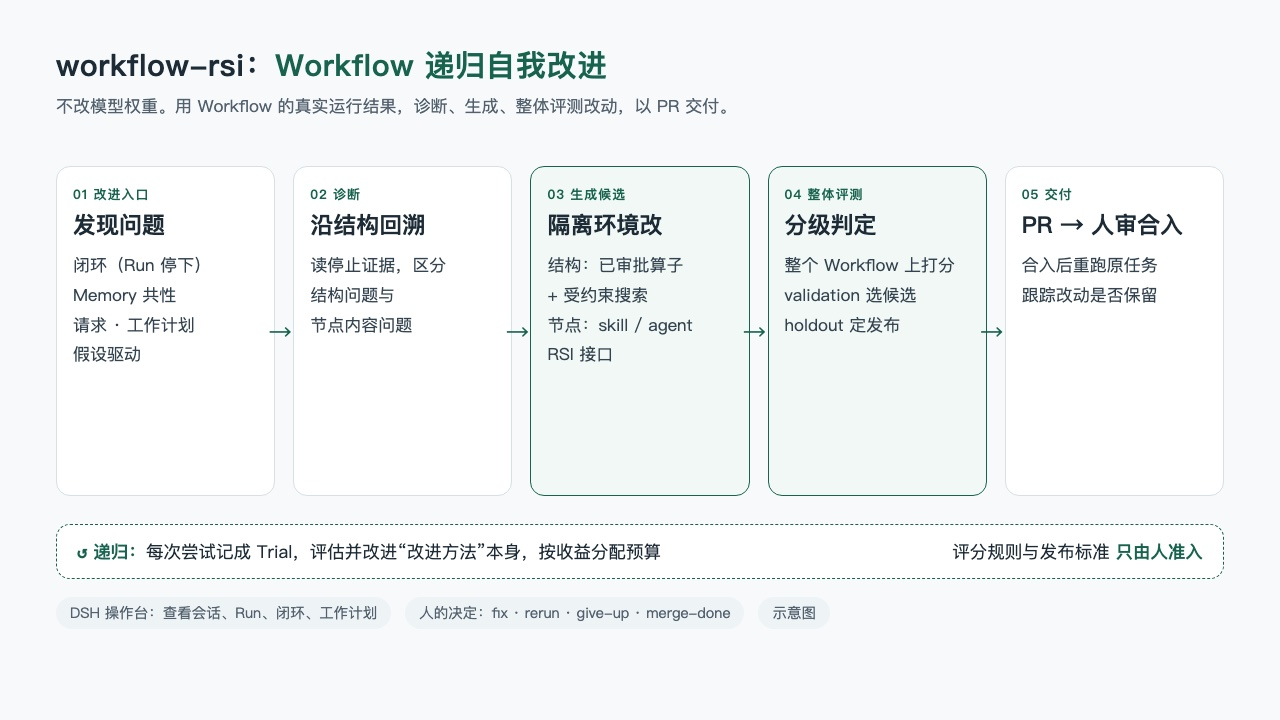
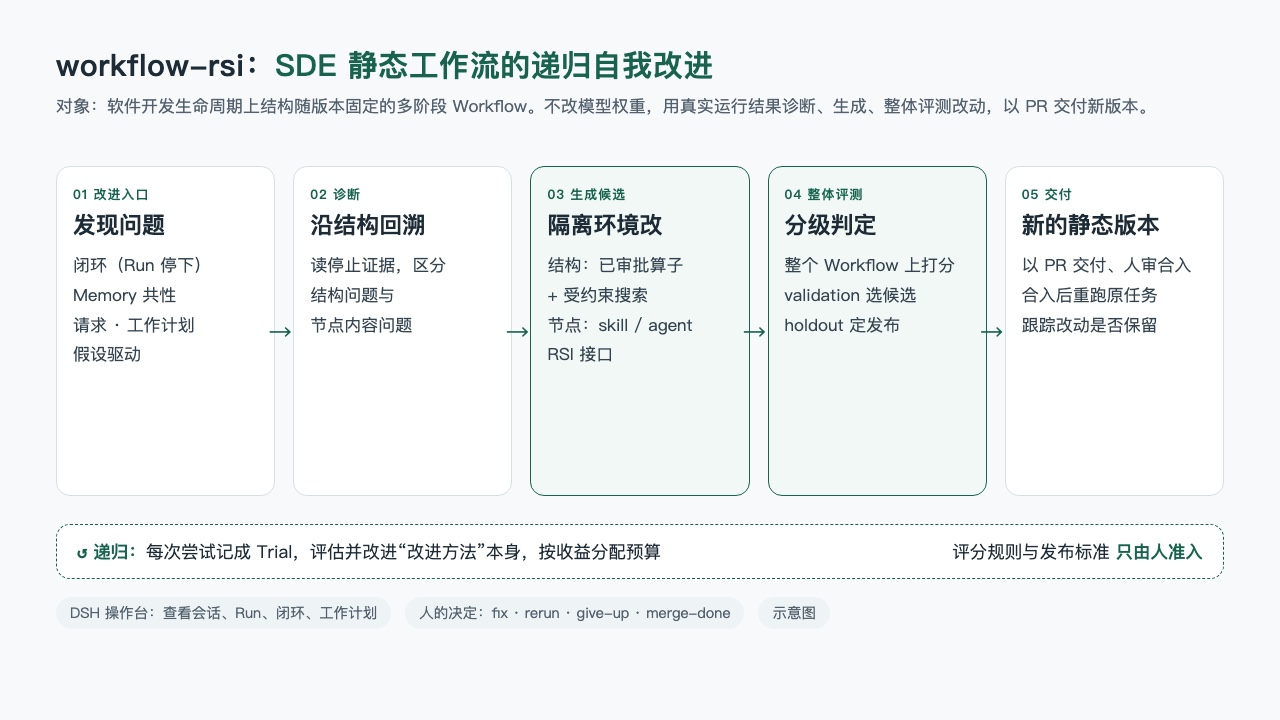
docs(workflow-rsi): 讲清改进对象是 SDE lifecycle 上的静态工作流
- 定义静态工作流：阶段、节点、交接、分支、重试与门禁随版本固定，每个输入按同一张结构图执行；按输入临时编排步骤的动态工作流不在范围内
- 说明只针对软件开发生命周期：需求、分析、设计、计划、实现、构建、验证，各阶段结果可自动判定
- 介绍页首屏、代表图、功能演示、适用范围、FAQ，以及市场索引描述、README 与使用文档同步口径

Changed region(s): [[0.0312, 0.0611, 0.9062, 0.1833], [0.7812, 0.275, 0.9375, 0.4583]]

diff --git a/public/plugins/workflow-rsi/index.html b/public/plugins/workflow-rsi/index.html
@@ -3,7 +3,7 @@
 <head>
   <meta charset="utf-8">
   <meta name="viewport" content="width=device-width,initial-scale=1">
-  <meta name="description" content="让 Workflow 递归自我改进：不改模型权重，用真实运行结果诊断问题、生成改动并在整个 Workflow 上评测，以 PR 交付更好的 Workflow。">
+  <meta name="description" content="面向软件开发生命周期（SDE lifecycle）的静态工作流做递归自我改进：不改模型权重，用真实运行结果诊断问题、生成改动并在整个 Workflow 上评测，以 PR 交付更好的版本。">
   <meta name="color-scheme" content="light">
   <meta name="theme-color" content="#f7f9fb">
   <title>workflow-rsi · Fuxi通用DSH组件市场</title>
@@ -21,8 +21,8 @@
     <section id="overview" class="wrap hero" aria-labelledby="page-title">
       <div class="hero-copy">
         <div class="plugin-name">workflow-rsi <span class="version">v0.1.0-alpha.1</span></div>
-        <h1 id="page-title"><span>Workflow</span><span class="accent">递归自我改进</span></h1>
-        <p class="lede">让 Workflow 递归自我改进：不改模型权重，用真实运行结果诊断问题、生成改动并在整个 Workflow 上评测，以 PR 交付更好的 Workflow。</p>
+        <h1 id="page-title"><span>SDE 静态工作流</span><span class="accent">递归自我改进</span></h1>
+        <p class="lede">面向软件开发生命周期（SDE lifecycle）的静态工作流做递归自我改进：不改模型权重，用真实运行结果诊断问题、生成改动并在整个 Workflow 上评测，以 PR 交付更好的版本。</p>
         <div class="hero-install" aria-label="安装命令"><div class="code-block"><div class="code-bar"><span>终端 · 安装 workflow-rsi 操作台</span><button type="button" class="copy-button" data-copy="dsh plugin --profile web add @fuxi-ailabs/workflow-rsi-dsh-console@0.1.0-alpha.1" aria-label="复制">复制 <span aria-hidden="true">⧉</span></button></div><pre><code>dsh plugin --profile web add @fuxi-ailabs/workflow-rsi-dsh-console@0.1.0-alpha.1</code></pre></div><p>先安装并启动 wrsi-server；web 换成操作台使用的 DSH Profile。 <a href="#quickstart">安装步骤 ↓</a></p></div>
         <div class="actions"><a class="button primary" href="#example">功能演示</a><a class="button secondary" href="#quickstart">安装使用</a></div>
         <p class="compatibility">DSH 0.1.6-alpha.2 或 ^0.2.1-rc.2 · 操作台与本体 0.1.0-alpha.1</p>
@@ -30,19 +30,45 @@
       </div>
       <figure class="hero-visual">
         <button type="button" class="screenshot-button hero-image-button" data-screenshot="assets/rsi-loop.jpg" data-title="一轮改进：从发现问题到 PR" aria-label="放大查看：一轮改进：从发现问题到 PR"><img src="assets/rsi-loop.jpg" width="1280" height="720" alt="workflow-rsi 一轮改进的流程：改进入口、沿结构诊断、在隔离环境生成候选、在整个 Workflow 上分级评测、以 PR 交付，并记录 Trial 改进改进方法本身。"><span>点击放大 <span aria-hidden="true">⤢</span></span></button>
-        <figcaption><strong>一轮改进：从发现问题到 PR</strong><p>示意图。结构候选用已审批算子和受约束搜索生成，节点内容经 skill / agent RSI 接口改进；评分规则与发布标准只由人准入。</p></figcaption>
+        <figcaption><strong>一轮改进：从发现问题到 PR</strong><p>示意图。改进对象是 SDE lifecycle 上的静态工作流：阶段、节点与交接随版本固定，每个输入按同一张结构图执行。结构候选用已审批算子和受约束搜索生成，节点内容经 skill / agent RSI 接口改进；评分规则与发布标准只由人准入。</p></figcaption>
       </figure>
     </section>
 
     <section id="use-cases" class="wrap section" aria-labelledby="cases-title">
       <div class="section-heading"><h2 id="cases-title">使用场景与适合人群</h2></div>
-      <div class="case-grid"><article class="case-card"><p class="case-audience"><span>适合</span>维护多阶段 Workflow 的工程师</p><h3>Run 停下后定位并修复</h3><blockquote>“Run 停在第 5 个阶段，是输入的问题还是 Workflow 的缺陷？”</blockquote><p>闭环读取停止证据，沿 Workflow 结构回溯，区分结构问题和节点内容问题，生成带测试的改动，验证通过后提出 PR；把握不足时停下交给人决定。</p><button type="button" class="copy-button" data-copy="列出 workflow-rsi 里正在等人决定的闭环，说明每个闭环停在哪个阶段、停止原因和诊断结论。" aria-label="复制提问">复制提问 <span aria-hidden="true">⧉</span></button></article><article class="case-card"><p class="case-audience"><span>适合</span>只能通过 API 调用模型的团队</p><h3>不训练模型，持续提升效果</h3><blockquote>“拿不到模型权重，怎样让同一类任务越做越好？”</blockquote><p>改动落在 Workflow 上，改好一次，之后同类任务都复用；每次尝试记成 Trial，按收益在改进方法之间分配预算。换模型后，固化在 Workflow 代码和测试里的判断可以直接复用。</p><button type="button" class="copy-button" data-copy="汇总 workflow-rsi 最近一周的 Trial：每次用了什么改进方法、改了什么、评测结果，以及是否合入。" aria-label="复制提问">复制提问 <span aria-hidden="true">⧉</span></button></article><article class="case-card"><p class="case-audience"><span>适合</span>Workflow 仓维护者与评审者</p><h3>审一个带证据的改动</h3><blockquote>“这个 PR 改了什么，证据够不够合入？”</blockquote><p>每个 PR 都附诊断结论、改动范围、测试和分级验证结果。合入由 Workflow 仓决定；合入后 workflow-rsi 重跑原任务，跟踪改动是否被保留。</p><button type="button" class="copy-button" data-copy="查看这个闭环提出的 PR：诊断结论和置信度、改了哪些文件、L1/L2/L3 验证结果，以及合入后重跑停在哪里。" aria-label="复制提问">复制提问 <span aria-hidden="true">⧉</span></button></article></div>
+      <div class="case-grid"><article class="case-card"><p class="case-audience"><span>适合</span>维护 SDE 多阶段 Workflow 的工程师</p><h3>Run 停下后定位并修复</h3><blockquote>“Run 停在第 5 个阶段，是输入的问题还是 Workflow 的缺陷？”</blockquote><p>闭环读取停止证据，沿 Workflow 结构回溯，区分结构问题和节点内容问题，生成带测试的改动，验证通过后提出 PR；把握不足时停下交给人决定。</p><button type="button" class="copy-button" data-copy="列出 workflow-rsi 里正在等人决定的闭环，说明每个闭环停在哪个阶段、停止原因和诊断结论。" aria-label="复制提问">复制提问 <span aria-hidden="true">⧉</span></button></article><article class="case-card"><p class="case-audience"><span>适合</span>只能通过 API 调用模型的团队</p><h3>不训练模型，持续提升效果</h3><blockquote>“拿不到模型权重，怎样让同一类任务越做越好？”</blockquote><p>改动落在 Workflow 上，改好一次，之后同类任务都复用；每次尝试记成 Trial，按收益在改进方法之间分配预算。换模型后，固化在 Workflow 代码和测试里的判断可以直接复用。</p><button type="button" class="copy-button" data-copy="汇总 workflow-rsi 最近一周的 Trial：每次用了什么改进方法、改了什么、评测结果，以及是否合入。" aria-label="复制提问">复制提问 <span aria-hidden="true">⧉</span></button></article><article class="case-card"><p class="case-audience"><span>适合</span>Workflow 仓维护者与评审者</p><h3>审一个带证据的改动</h3><blockquote>“这个 PR 改了什么，证据够不够合入？”</blockquote><p>每个 PR 都附诊断结论、改动范围、测试和分级验证结果。合入由 Workflow 仓决定；合入后 workflow-rsi 重跑原任务，跟踪改动是否被保留。</p><button type="button" class="copy-button" data-copy="查看这个闭环提出的 PR：诊断结论和置信度、改了哪些文件、L1/L2/L3 验证结果，以及合入后重跑停在哪里。" aria-label="复制提问">复制提问 <span aria-hidden="true">⧉</span></button></article></div>
     </section>
 
     <section id="example" class="wrap section" aria-labelledby="example-title">
-      <div class="section-heading"><h2 id="example-title">一次真实闭环：从 Run 停下到 PR</h2><p class="section-description">一个已接入的多阶段 Workflow 在同一份输入上的两轮。下面的事件取自闭环账本，时间为 UTC，诊断一行依次为处理方式、所属层、置信度。</p></div>
+      <div class="section-heading"><h2 id="example-title">改进对象与一次真实闭环</h2><p class="section-description">先说明 workflow-rsi 改进的是什么样的 Workflow，再看一个已接入的多阶段 Workflow 在同一份输入上的两轮。事件取自闭环账本，时间为 UTC，诊断一行依次为处理方式、所属层、置信度。</p></div>
 
-      <div class="demo-content"><div class="demo-content-block"><h3>流程图：一轮改进</h3><div class="code-block"><div class="code-bar"><span>流程</span><button type="button" class="copy-button" data-copy="改进入口：闭环、Memory 共性、请求、工作计划、假设驱动
+      <div class="demo-content"><div class="demo-content-block"><h3>什么是静态工作流</h3><p>静态工作流是结构随版本固定的 Workflow：有哪些阶段和节点、节点之间交接什么、在哪里分支、重试和设门禁，都写在 Workflow 仓的源码里；同一个版本对每个输入都按同一张结构图执行。每个节点用的模型、提示、Skill 和工具也随版本固定。运行时由 Agent 按输入临时决定步骤的编排属于动态工作流，不在 workflow-rsi 的改进范围内。</p></div><div class="demo-content-block"><h3>为什么只针对 SDE lifecycle</h3><p>workflow-rsi 改进的是软件开发生命周期上的静态工作流：从需求、分析、设计、计划到实现、构建与验证，按固定阶段推进，每个阶段有明确的产出和可以自动判定的结果（构建是否通过、测试通过多少、覆盖率多少）。这些结果给出可重复的评测信号，改动可以用测试证明、以 PR 交付、合入后重跑同一任务复核。通用业务流程、客服对话、数据处理等其他类型的工作流，暂不作为改进对象。</p></div><div class="demo-content-block"><h3>一个 SDE lifecycle 静态工作流的结构</h3><div class="code-block"><div class="code-bar"><span>阶段与交接（示例中的 Workflow）</span><button type="button" class="copy-button" data-copy="generate      准备任务与需求说明
+  ↓
+analysis      分析代码与依赖
+  ↓
+design        设计改动方案
+  ↓
+plan          拆成可执行的步骤
+  ↓
+execution     实现与构建
+  ↓
+verification  运行测试；失败时由 Repair 决定去向
+                safe_fix          → 有限修复后复测
+                request_redesign  → 交给 Redesign 重新设计
+                no_action         → 结束（no_safe_repair）" aria-label="复制">复制 <span aria-hidden="true">⧉</span></button></div><pre><code>generate      准备任务与需求说明
+  ↓
+analysis      分析代码与依赖
+  ↓
+design        设计改动方案
+  ↓
+plan          拆成可执行的步骤
+  ↓
+execution     实现与构建
+  ↓
+verification  运行测试；失败时由 Repair 决定去向
+                safe_fix          → 有限修复后复测
+                request_redesign  → 交给 Redesign 重新设计
+                no_action         → 结束（no_safe_repair）</code></pre></div></div><div class="demo-content-block"><h3>workflow-rsi 在这张结构图上能改什么</h3><ul><li>结构：插入已审步骤、删除可选步骤、调整允许的交接、切换已审策略；门禁和受保护路径不能动。</li><li>节点内容：指令、Skill、工具说明和模型选择，经 skill / agent RSI 接口改进。</li><li>两类改动都在整个 Workflow 上分级评测，产出的是一个新的静态版本，以 PR 交付。</li></ul></div><div class="demo-content-block"><h3>流程图：一轮改进</h3><div class="code-block"><div class="code-bar"><span>流程</span><button type="button" class="copy-button" data-copy="改进入口：闭环、Memory 共性、请求、工作计划、假设驱动
   ↓
 诊断：沿 Workflow 结构回溯，区分结构问题与节点内容问题
   ↓
@@ -156,9 +182,9 @@ redesign can address the failure.</code></pre></div></div><div class="demo-conte
     <section id="quickstart" class="wrap section" aria-labelledby="start-title">
       <div class="section-heading"><h2 id="start-title">安装与验证</h2></div>
       <div id="details" class="install-requirements">
-        <div class="requirements-row"><strong>使用条件</strong><dl><div><dt>插件</dt><dd>@fuxi-ailabs/workflow-rsi-dsh-console 0.1.0-alpha.1</dd></div><div><dt>workflow-rsi 本体</dt><dd>@fuxi-ailabs/workflow-rsi 0.1.0-alpha.1（命令 wie、wrsi-server）</dd></div><div><dt>DSH</dt><dd>0.1.6-alpha.2 或 ^0.2.1-rc.2，两版都已实跑 22 项验收</dd></div><div><dt>系统</dt><dd>macOS 或 Linux，Node.js ≥ 22.19；暂不支持原生 Windows</dd></div><div><dt>被改进的 Workflow</dt><dd>需要它的适配器读取 Run 的状态和停止记录，以及仓库与闭环配置</dd></div></dl></div>
+        <div class="requirements-row"><strong>使用条件</strong><dl><div><dt>插件</dt><dd>@fuxi-ailabs/workflow-rsi-dsh-console 0.1.0-alpha.1</dd></div><div><dt>workflow-rsi 本体</dt><dd>@fuxi-ailabs/workflow-rsi 0.1.0-alpha.1（命令 wie、wrsi-server）</dd></div><div><dt>DSH</dt><dd>0.1.6-alpha.2 或 ^0.2.1-rc.2，两版都已实跑 22 项验收</dd></div><div><dt>系统</dt><dd>macOS 或 Linux，Node.js ≥ 22.19；暂不支持原生 Windows</dd></div><div><dt>被改进的 Workflow</dt><dd>SDE lifecycle 上的静态工作流，需要它的适配器读取 Run 的状态和停止记录，以及仓库与闭环配置</dd></div></dl></div>
         <p>workflow-rsi 由本体和 DSH 操作台两个 npm 包组成。判定、状态与注册表都不进 DSH 进程，插件只经 wrsi-server 的本机 HTTP API 和 wie 子进程访问它。</p>
-        <details class="install-boundaries"><summary>适用范围和限制 <span aria-hidden="true">＋</span></summary><div><div><strong>适合的场景</strong><p>同一个 Workflow 反复处理同类任务、由多个阶段和 Agent 组成、团队要求改动可审计可回滚。只跑一次的任务，或者 Workflow 还没有接入适配器时，用处不大。</p></div><div><strong>操作台的范围</strong><p>操作台在 DSH 里查看会话、Run、停止记录、闭环和工作计划，并转交人的决定。11 个工具都只读，守卫拒绝其他 wrsi_ 写工具；诊断、评测、提出 PR 和闭环都由 workflow-rsi 本体完成。</p></div><div><strong>由人准入</strong><p>评分规则、发布标准、预算分配和新改进方法的启用只由人准入，workflow-rsi 和 Agent 都改不了；是否合入 PR 由 Workflow 仓的维护者决定。Harness（会话、沙箱、预算、状态、证据）不自动修改。</p></div></div></details>
+        <details class="install-boundaries"><summary>适用范围和限制 <span aria-hidden="true">＋</span></summary><div><div><strong>改进对象</strong><p>SDE lifecycle 上的静态工作流：需求、分析、设计、计划、实现、构建、验证等阶段按固定结构推进，结构随版本固定，每个阶段有可自动判定的结果。运行时按输入临时编排步骤的动态工作流，以及非软件开发类的工作流，不在改进范围内。</p></div><div><strong>适合的场景</strong><p>同一个静态工作流反复处理同类开发任务、由多个阶段和 Agent 组成、团队要求改动可审计可回滚。只跑一次的任务，或者 Workflow 还没有接入适配器时，用处不大。</p></div><div><strong>操作台的范围</strong><p>操作台在 DSH 里查看会话、Run、停止记录、闭环和工作计划，并转交人的决定。11 个工具都只读，守卫拒绝其他 wrsi_ 写工具；诊断、评测、提出 PR 和闭环都由 workflow-rsi 本体完成。</p></div><div><strong>由人准入</strong><p>评分规则、发布标准、预算分配和新改进方法的启用只由人准入，workflow-rsi 和 Agent 都改不了；是否合入 PR 由 Workflow 仓的维护者决定。Harness（会话、沙箱、预算、状态、证据）不自动修改。</p></div></div></details>
       </div>
       <ol class="steps"><li id="step-1"><span class="step-index" aria-hidden="true">1</span><div><p class="step-description"><strong>安装 workflow-rsi 本体</strong> 全局安装后得到 wie 与 wrsi-server 两个命令；包内自带内部库，只另外从 registry 安装 TypeScript。 <span class="command-context">终端</span></p><div class="install-command" aria-label="终端"><pre><code>npm install -g @fuxi-ailabs/workflow-rsi@0.1.0-alpha.1
 which wie wrsi-server</code></pre><button type="button" class="copy-button" data-copy="npm install -g @fuxi-ailabs/workflow-rsi@0.1.0-alpha.1
@@ -181,7 +207,7 @@ which wie wrsi-server" aria-label="复制">复制 <span aria-hidden="true">⧉</
 
     <section id="faq" class="wrap section" aria-labelledby="faq-title">
       <div class="section-heading"><h2 id="faq-title">常见问题</h2></div>
-      <div class="faq-list"><details><summary>workflow-rsi 和直接改提示词或 Skill 有什么区别？<span aria-hidden="true">＋</span></summary><p>workflow-rsi 先沿 Workflow 结构诊断，再决定改哪里：结构问题用已审批的结构算子和受约束搜索生成候选，节点内容（指令、Skill、工具说明、模型选择）交给 skill / agent RSI 接口。两类改动都在整个 Workflow 上分级评测，局部得分只作参考，以 PR 交付。</p></details><details><summary>操作台会自己改 Workflow 或合入 PR 吗？<span aria-hidden="true">＋</span></summary><p>不会。操作台注册 11 个只读工具和一个 /wrsi 命令，Agent 无法经工具改动 workflow-rsi。admit、publish、loop-resume、plan-decide 这类写命令必须由人带上 --confirm 才执行；PR 是否合入由 Workflow 仓的维护者决定。</p></details><details><summary>闭环停下等人时怎么处理？<span aria-hidden="true">＋</span></summary><p>诊断把握不足、候选验证不过、环境故障等情况都会停下。用 /wrsi loop &lt;loop id&gt; 查看停止原因和诊断结论，再用 /wrsi loop-resume &lt;loop id&gt; &lt;fix|rerun|give-up|merge-done&gt; --confirm 给出决定。</p></details><details><summary>接入一个新的 Workflow 需要准备什么？<span aria-hidden="true">＋</span></summary><p>需要该 Workflow 的适配器，用来读取 Run 的状态和停止记录、输出事实；适配器不下结论。另外配置 Workflow 仓库与闭环配置，以及人准入的评测资产。</p></details><details><summary>插件调用失败，先检查哪里？<span aria-hidden="true">＋</span></summary><p>先确认 wrsi-server 在运行、server_url 正确、key_file 可读且与服务一致；闭环与工作计划功能还需要配置 wie。各种情况的返回见“错误与写操作”文档。插件不重试，也不在不可用时猜测结果。</p></details><details><summary>评分规则和发布标准由谁来定？<span aria-hidden="true">＋</span></summary><p>只由人准入。workflow-rsi 和 Agent 都改不了评分规则、发布标准和预算分配；新的改进方法由 method-author 提出，经影子试验和人工准入后启用。</p></details></div>
+      <div class="faq-list"><details><summary>什么是静态工作流？<span aria-hidden="true">＋</span></summary><p>结构随版本固定的 Workflow：阶段、节点、交接、分支、重试和门禁写在 Workflow 仓的源码里，同一个版本对每个输入都按同一张结构图执行，节点用的模型、提示、Skill 和工具也随版本固定。workflow-rsi 每次改进产出一个新的静态版本，经评测后以 PR 交付。</p></details><details><summary>我的工作流不是软件开发流程，能用吗？<span aria-hidden="true">＋</span></summary><p>workflow-rsi 只针对 SDE lifecycle 的静态工作流，依赖构建、测试、覆盖率这类可以自动判定的阶段结果做评测。其他类型的工作流暂不支持；运行时按输入临时编排步骤的动态工作流，也不在改进范围内。</p></details><details><summary>workflow-rsi 和直接改提示词或 Skill 有什么区别？<span aria-hidden="true">＋</span></summary><p>workflow-rsi 先沿 Workflow 结构诊断，再决定改哪里：结构问题用已审批的结构算子和受约束搜索生成候选，节点内容（指令、Skill、工具说明、模型选择）交给 skill / agent RSI 接口。两类改动都在整个 Workflow 上分级评测，局部得分只作参考，以 PR 交付。</p></details><details><summary>操作台会自己改 Workflow 或合入 PR 吗？<span aria-hidden="true">＋</span></summary><p>不会。操作台注册 11 个只读工具和一个 /wrsi 命令，Agent 无法经工具改动 workflow-rsi。admit、publish、loop-resume、plan-decide 这类写命令必须由人带上 --confirm 才执行；PR 是否合入由 Workflow 仓的维护者决定。</p></details><details><summary>闭环停下等人时怎么处理？<span aria-hidden="true">＋</span></summary><p>诊断把握不足、候选验证不过、环境故障等情况都会停下。用 /wrsi loop &lt;loop id&gt; 查看停止原因和诊断结论，再用 /wrsi loop-resume &lt;loop id&gt; &lt;fix|rerun|give-up|merge-done&gt; --confirm 给出决定。</p></details><details><summary>接入一个新的 Workflow 需要准备什么？<span aria-hidden="true">＋</span></summary><p>需要该 Workflow 的适配器，用来读取 Run 的状态和停止记录、输出事实；适配器不下结论。另外配置 Workflow 仓库与闭环配置，以及人准入的评测资产。</p></details><details><summary>插件调用失败，先检查哪里？<span aria-hidden="true">＋</span></summary><p>先确认 wrsi-server 在运行、server_url 正确、key_file 可读且与服务一致；闭环与工作计划功能还需要配置 wie。各种情况的返回见“错误与写操作”文档。插件不重试，也不在不可用时猜测结果。</p></details><details><summary>评分规则和发布标准由谁来定？<span aria-hidden="true">＋</span></summary><p>只由人准入。workflow-rsi 和 Agent 都改不了评分规则、发布标准和预算分配；新的改进方法由 method-author 提出，经影子试验和人工准入后启用。</p></details></div>
     </section>
   </main>
   <footer class="wrap footer"><span>Fuxi AI Labs</span><div><a href="https://fuxi-ailabs.github.io/dsh-plugin-market/plugins/workflow-rsi/guide.html">使用文档 ↗</a><a href="https://fuxi-ailabs.github.io/dsh-plugin-market/plugins/workflow-rsi/tools.html">工具与命令 ↗</a><a href="https://fuxi-ailabs.github.io/dsh-plugin-market/plugins/workflow-rsi/errors.html">错误与写操作 ↗</a><a href="https://fuxi-ailabs.github.io/dsh-plugin-market/plugins/workflow-rsi/versions.html">组件与版本 ↗</a><a href="#faq">常见问题</a><a href="#overview">回到顶部 ↑</a></div></footer>

diff --git a/public/plugins/workflow-rsi/demo-data.js b/public/plugins/workflow-rsi/demo-data.js
@@ -1,8 +1,33 @@
 // Illustrative data for this page, not a live plugin connection.
 window.PLUGIN_DEMO = {
-  "title": "一次真实闭环：从 Run 停下到 PR",
-  "description": "一个已接入的多阶段 Workflow 在同一份输入上的两轮。下面的事件取自闭环账本，时间为 UTC，诊断一行依次为处理方式、所属层、置信度。",
+  "title": "改进对象与一次真实闭环",
+  "description": "先说明 workflow-rsi 改进的是什么样的 Workflow，再看一个已接入的多阶段 Workflow 在同一份输入上的两轮。事件取自闭环账本，时间为 UTC，诊断一行依次为处理方式、所属层、置信度。",
   "blocks": [
+    {
+      "type": "text",
+      "title": "什么是静态工作流",
+      "text": "静态工作流是结构随版本固定的 Workflow：有哪些阶段和节点、节点之间交接什么、在哪里分支、重试和设门禁，都写在 Workflow 仓的源码里；同一个版本对每个输入都按同一张结构图执行。每个节点用的模型、提示、Skill 和工具也随版本固定。运行时由 Agent 按输入临时决定步骤的编排属于动态工作流，不在 workflow-rsi 的改进范围内。"
+    },
+    {
+      "type": "text",
+      "title": "为什么只针对 SDE lifecycle",
+      "text": "workflow-rsi 改进的是软件开发生命周期上的静态工作流：从需求、分析、设计、计划到实现、构建与验证，按固定阶段推进，每个阶段有明确的产出和可以自动判定的结果（构建是否通过、测试通过多少、覆盖率多少）。这些结果给出可重复的评测信号，改动可以用测试证明、以 PR 交付、合入后重跑同一任务复核。通用业务流程、客服对话、数据处理等其他类型的工作流，暂不作为改进对象。"
+    },
+    {
+      "type": "code",
+      "title": "一个 SDE lifecycle 静态工作流的结构",
+      "codeLabel": "阶段与交接（示例中的 Workflow）",
+      "code": "generate      准备任务与需求说明\n  ↓\nanalysis      分析代码与依赖\n  ↓\ndesign        设计改动方案\n  ↓\nplan          拆成可执行的步骤\n  ↓\nexecution     实现与构建\n  ↓\nverification  运行测试；失败时由 Repair 决定去向\n                safe_fix          → 有限修复后复测\n                request_redesign  → 交给 Redesign 重新设计\n                no_action         → 结束（no_safe_repair）"
+    },
+    {
+      "type": "list",
+      "title": "workflow-rsi 在这张结构图上能改什么",
+      "items": [
+        "结构：插入已审步骤、删除可选步骤、调整允许的交接、切换已审策略；门禁和受保护路径不能动。",
+        "节点内容：指令、Skill、工具说明和模型选择，经 skill / agent RSI 接口改进。",
+        "两类改动都在整个 Workflow 上分级评测，产出的是一个新的静态版本，以 PR 交付。"
+      ]
+    },
     {
       "type": "code",
       "title": "流程图：一轮改进",

diff --git a/public/plugins/workflow-rsi/guide.html b/public/plugins/workflow-rsi/guide.html
@@ -24,6 +24,7 @@
     <article class="doc">
       <h1>workflow-rsi</h1>
 <p>workflow-rsi 让 Workflow 递归自我改进（RSI，Recursive Self-Improvement）。在不改模型权重的前提下，它用 Workflow 的真实运行结果，持续搜索、评测并发布更好的 Workflow 结构。“自我改进”指它自己发现问题、提出改动、判断好坏；“递归”指它还会评估并改进自己的改进方法。</p>
+<p>改进对象是 SDE lifecycle（软件开发生命周期）上的静态工作流：需求、分析、设计、计划、实现、构建、验证等阶段按固定结构推进，阶段、节点、交接、分支、重试和门禁写在 Workflow 仓的源码里，随版本固定，同一个版本对每个输入都按同一张结构图执行。每次改进产出一个新的静态版本。运行时由 Agent 按输入临时决定步骤的动态工作流，以及非软件开发类的工作流，不在改进范围内。</p>
 <p>同一个模型，放在搭得好和搭得差的 Workflow 里，结果差别很大。Workflow 的改动见效快、可以回滚，改好一次，之后的任务都能复用。所有候选在隔离环境里生成，用人准入的评测资产在整个 Workflow 上判定，以 PR 交付；生产运行始终使用已发布的版本。</p>
 
 <h2 id="what">有什么用<a class="hash" href="#what" aria-label="本节链接">#</a></h2>

diff --git a/README.md b/README.md
@@ -28,7 +28,7 @@ Fuxi 团队插件目录
 AgentLineage 支持追溯文件改动来源、查询原生会话证据和打开溯源视图。参见 [插件介绍与效果对比](https://fuxi-ailabs.github.io/dsh-plugin-market/plugins/agentlineage/)。Windows x64 随插件提供完整运行环境，安装后自动启动。参见 [AgentLineage 安装与使用说明](https://github.com/fuxi-ailabs/AgentLineage/blob/dsh-agentlineage-v0.1.0-alpha.4/integrations/dsh/README.md)。
 
 Crowd Memory 是面向 DSH coding Agent 的群体记忆：把代码修复、构建排错和接口测试中的经验提供给后续 Agent，附带来源、适用条件和验证结果。面向使用 coding Agent 的开发者，以及开发 workflow 的集成与维护者；采用已有修法后，仍需在当前项目运行测试。本机共享与开发 workflow 可用，跨机器开发协作仍为内部预览；公开示例与评测聚焦开发任务，其他业务场景的适用性尚未验证。使用前需要安装本机记忆服务 `@fuxi-ailabs/crowdmemory-runtime`。参见 [Crowd Memory 介绍与安装说明](https://fuxi-ailabs.github.io/dsh-plugin-market/plugins/crowdmemory/)；各轮评测结果、数据来源和适用范围见[评测页](https://fuxi-ailabs.github.io/dsh-plugin-market/plugins/crowdmemory/evaluation.html)。
-workflow-rsi 让 Workflow 递归自我改进：不改模型权重，用真实运行结果持续搜索、评测并发布更好的 Workflow 结构，并评估和改进自己的改进方法。改进来自闭环、Memory 共性、请求、工作计划与假设驱动，结构用已审批的算子和受约束搜索生成，节点内容经 skill / agent RSI 接口改进，全部在整个 Workflow 上分级评测，以 PR 交付；评分规则与发布标准只由人准入。市场收录的是 DSH 操作台，使用前需要安装并启动 `@fuxi-ailabs/workflow-rsi` 提供的 `wrsi-server`。参见 [workflow-rsi 介绍、例子与安装说明](https://fuxi-ailabs.github.io/dsh-plugin-market/plugins/workflow-rsi/)。
+workflow-rsi 让 SDE lifecycle（软件开发生命周期）上的静态工作流递归自我改进。静态工作流指阶段、节点、交接、分支与门禁随版本固定、每个输入按同一张结构图执行的多阶段 Workflow，例如需求、分析、设计、计划、实现、构建、验证；运行时按输入临时编排步骤的动态工作流和非软件开发类工作流不在范围内。它不改模型权重，用真实运行结果持续搜索、评测并发布更好的 Workflow 结构，并评估和改进自己的改进方法。改进来自闭环、Memory 共性、请求、工作计划与假设驱动，结构用已审批的算子和受约束搜索生成，节点内容经 skill / agent RSI 接口改进，全部在整个 Workflow 上分级评测，以 PR 交付；评分规则与发布标准只由人准入。市场收录的是 DSH 操作台，使用前需要安装并启动 `@fuxi-ailabs/workflow-rsi` 提供的 `wrsi-server`。参见 [workflow-rsi 介绍、例子与安装说明](https://fuxi-ailabs.github.io/dsh-plugin-market/plugins/workflow-rsi/)。
 
 Insight 把当前 DSH 会话导入 Context-Insight，查看 Workflow、Subagent 与工具调用，并在 DSH 中读取评分卡。插件会自动准备运行时，并在配置页检查 Provider Auth、CLI 与服务状态。参见 [Insight 文档](https://fuxi-ailabs.github.io/dsh-plugin-market/plugins/insight/)。
 
